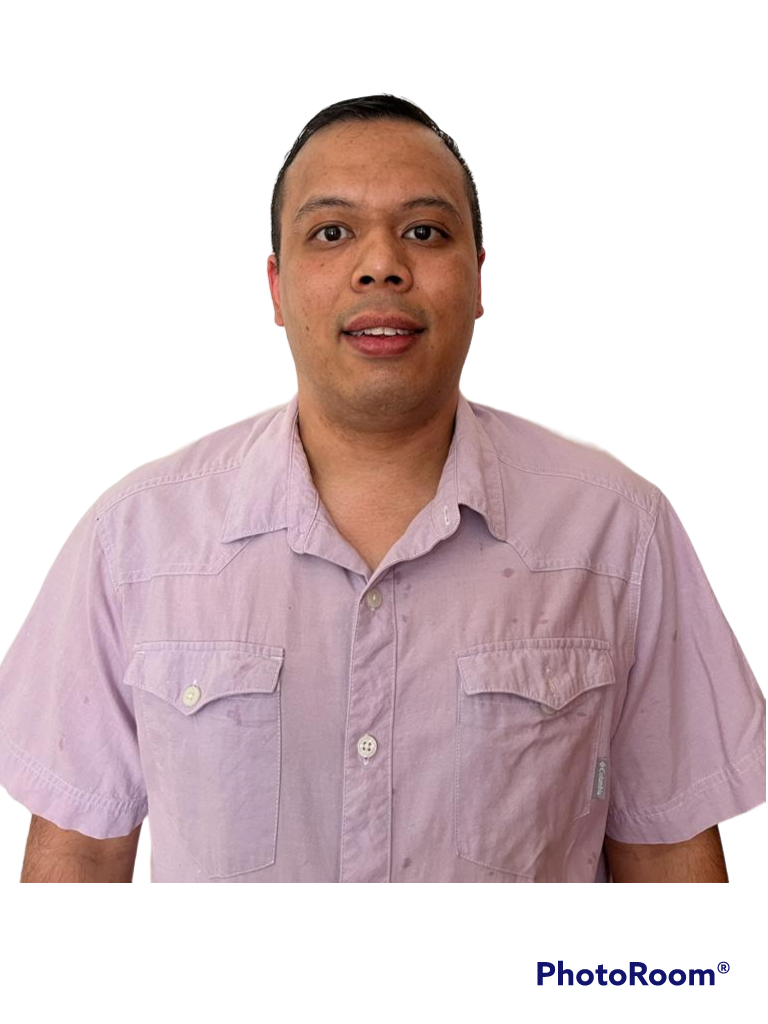
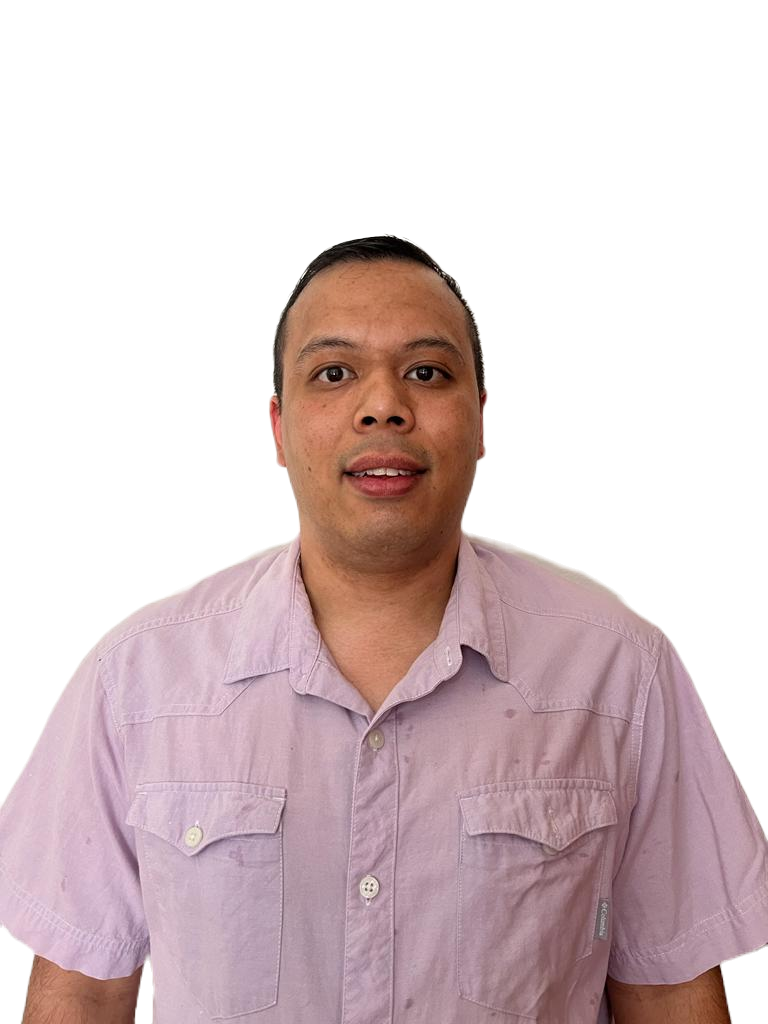
Portafolio v1.0

diff --git a/src/components/projects/projectsData.js b/src/components/projects/projectsData.js
@@ -15,11 +15,11 @@
                 'React Hooks', 
                 'Bootstrap' ],
             images: [
-                {source:"http://drive.google.com/uc?export=view&id=11gzlgB5n9KiPKyD_3nED-uzyG-19MYj-" , detail: "World of PC Home"},
-                {source:"http://drive.google.com/uc?export=view&id=1pvwIn68cLyqwXi0ViENnXy8OjdOASEht"  , detail: "World of PC Detalle de Producto"},
-                {source:"http://drive.google.com/uc?export=view&id=1iIMR3ttt7MA1JQ1DjWXjFxWxuuTeo4i9" , detail: "World of PC Carro de Compras"},
-                {source:"http://drive.google.com/uc?export=view&id=1iXIOfQddu8s2b4sKDnttAeCb4jXUM_Wg" , detail: "World of PC Orden de Compra"},
-                {source:"http://drive.google.com/uc?export=view&id=1-_bFBEbubAtu9lUTBuNdlhC6sg5tWfh7"  , detail: "World of PC Lista de Productos"},
+                {source:"http://drive.google.com/uc?export=view&id=1hdz3b6bSoTqwaGi2YwdoZKv5twgoH070" , detail: "Portafolio Home"},
+                {source:"http://drive.google.com/uc?export=view&id=1uWk-_E3PNfP5DVl9UP2Tyqp_5kha-q1j"  , detail: "Sección Acerca de Mi"},
+                {source:"http://drive.google.com/uc?export=view&id=16lmiy0jKc5LxJDZzE2FkYpUoJXBrtcbS" , detail: "Sección Habilidades"},
+                {source:"http://drive.google.com/uc?export=view&id=1_pdyj-15wZzXxfR43hVip8jto_UukNtc" , detail: "Sección Educación"},
+                {source:"http://drive.google.com/uc?export=view&id=12djIeDx7T58jizUB1wHEnvHXa0L3rmAE"  , detail: "Sección Projectos"},
             ]
         },
         {
@@ -52,11 +52,12 @@
             cardDescription: "Consiste en un modelo de ecommerce relacionada con chocolate. Fue un proyecto para un curso de Javascript",
             cardTarget:"_blank",
             modalsubtitle: "Ecommerce de Tienda de Chocolates",
-            modalDescription:"Proyecto inicial con el cual comence mi formación en el área de desarrollo web, ",
+            modalDescription:"Proyecto inicial con el cual comence mi formación en el área de desarrollo web, es un sitio de web de 5 paginas que simula una tienda de chocolates, incluye tambiém el uso de varias librerias y APIs, como Sweetalert y Formspree. El proyecto es responsive",
             technologies: [
                 'HTML5', 
                 'CSS3', 
                 'Javascript', 
+                'Bootstrap'
             ], 
             images: [
                 {source:"http://drive.google.com/uc?export=view&id=10eLfF3U5Tx3_zBHSpt1q1MabDU-uV9mx" , detail: "xChocostorex Home"},

diff --git a/src/components/projects/ProjectModals.jsx b/src/components/projects/ProjectModals.jsx
@@ -11,8 +11,10 @@ function ProjectModals(props) {
     const handleClose = () => setShow(false);
     const handleShow = () => setShow(true);
 
+    let modalKey = `modal${props.cardKey}`;
+
   return (       
-    <>
+    <div key= {props.cardKey}>
       <Button variant="primary" onClick={handleShow} className='card__btn__project btn btn-primary'>
         Mas Información
       </Button>
@@ -32,7 +34,7 @@ function ProjectModals(props) {
                 <h4>Tecnologías utilizadas</h4>
                 <div className='pill__container'>                
                 {props.data.technologies.map((tech) => (
-                  <div className='project__techpill'>{tech}</div>
+                  <div className='project__techpill' key= {modalKey}>{tech}</div>
                 ))}
               </div>
             </div>
@@ -50,7 +52,7 @@ function ProjectModals(props) {
           </Button>
         </Modal.Footer>
       </Modal>
-    </>
+    </div>
   )
 }
 

diff --git a/src/components/projects/ProjectCards.jsx b/src/components/projects/ProjectCards.jsx
@@ -3,9 +3,9 @@ import Card from 'react-bootstrap/Card';
 import ProjectModals from './ProjectModals'
 
 function ProjectCards(props) {
-  
+      let cardKey = `card${props.data.id}`;     
   return (
-    <Card bg="dark" className='projects__cards' border="light" text='light' >
+    <Card bg="dark" className='projects__cards' border="light" text='light' key="props.key" >
       <Card.Img variant="top" src={props.cardImg} />
       <Card.Body>
         <Card.Title className='projects__card__title'>{props.cardTitle}</Card.Title>
@@ -15,6 +15,7 @@ function ProjectCards(props) {
         <div className='card__button_container'>
         <ProjectModals 
           data= {props.data}
+          key = {cardKey}
           />
             <a role='button' className='card__btn__project btn btn-dark' href={props.cardLink} target={props.cardTarget}>Prueba Online</a>
         </div>        

diff --git a/src/components/projects/Projects.jsx b/src/components/projects/Projects.jsx
@@ -4,8 +4,7 @@ import ProjectCards from './ProjectCards'
 import projectsData2 from './projectsData.js'
 
 
-function Projects() {
-  console.log(projectsData2[0].images[0].source);
+function Projects() {  
   return (
     <section id='projects'>
       <h5>¿Qué Ideas Me Han Inspirado?</h5>
@@ -20,6 +19,7 @@ function Projects() {
           cardImg = {data.images[0].source}  
           cardLink = {data.cardLink} 
           cardTarget = {data.cardTarget}
+          key={data.id}          
           data={data}
         />
         ))}             

diff --git a/src/components/header/header.css b/src/components/header/header.css
@@ -66,7 +66,7 @@ header {
 
 @media screen and (max-width: 1024px) {
     header {
-        height: 110vh;
+        height: fit-content;
     }  
     
     .header__socialMedia {
@@ -78,12 +78,14 @@ header {
 
 @media screen and (max-width: 600px) {
     header {
-        height: 110vh;
+        height: fit-content;
         padding-top: 3rem;
     }
     
     .header__socialMedia {
-        display: none;
+        flex-direction: row;
+        left: 8rem;
+        bottom: 8rem;
     }    
 
     .me {

diff --git a/src/components/about/About.jsx b/src/components/about/About.jsx
@@ -1,6 +1,6 @@
 import React from 'react'
 import './about.css'
-import ME from '../../assets/Raul-Chang-NoBG2.png'
+import ME from '../../assets/Raul-Chang-NoBG.png'
 import {FaMedal, FaUserGraduate} from 'react-icons/fa'
 import {RiComputerLine} from 'react-icons/ri'
 const About = () => {
